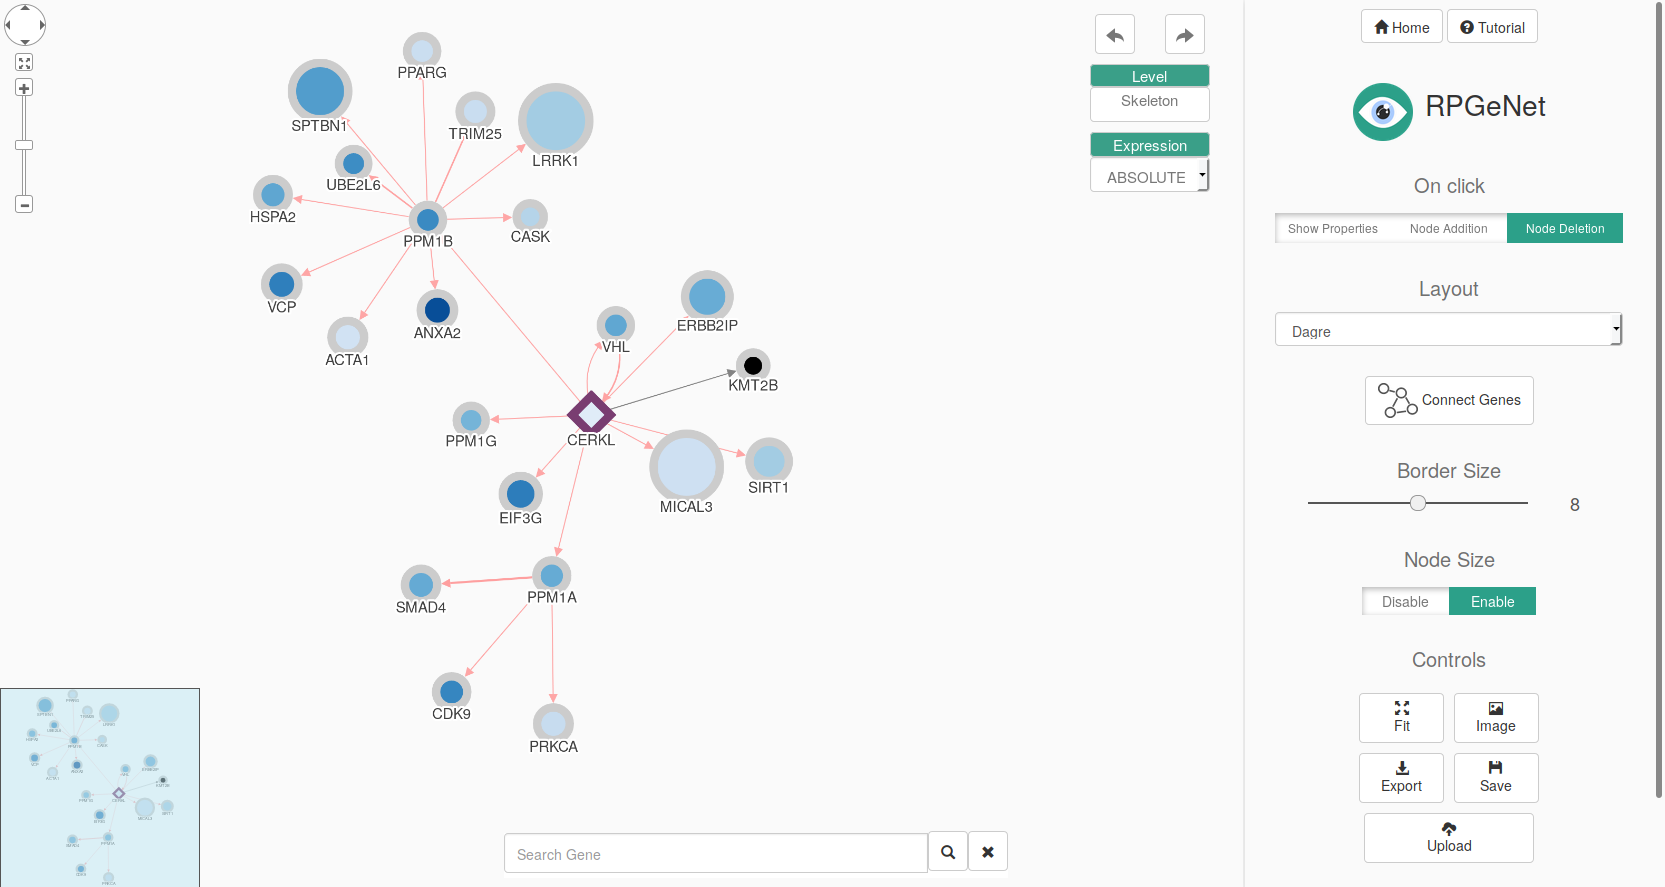
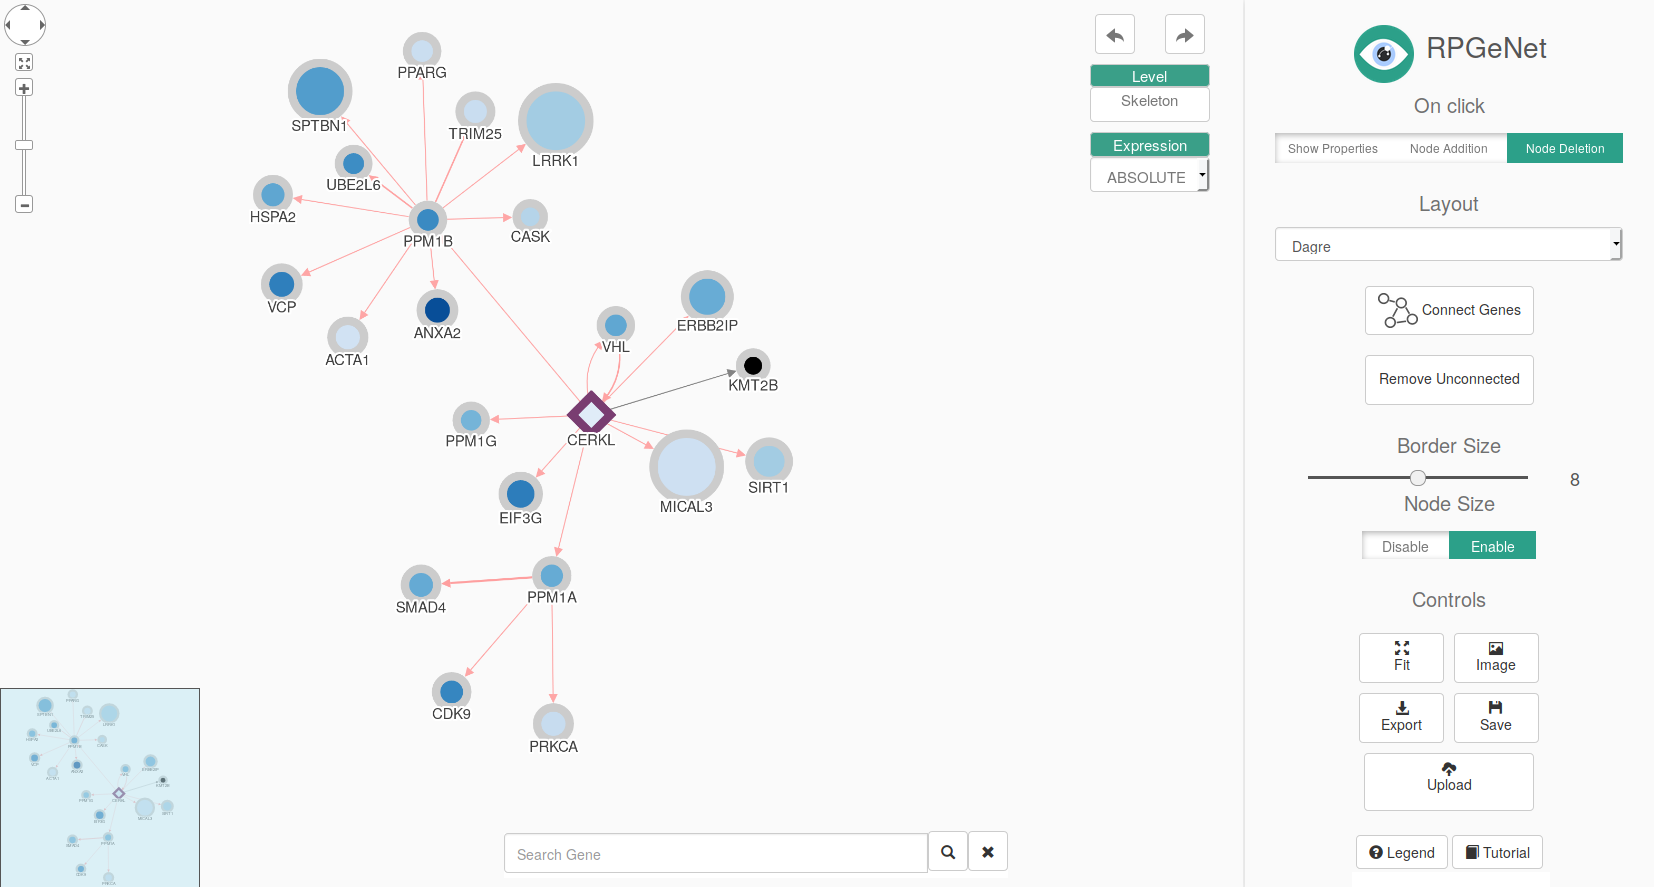
tutorial updated, fix unhidden x button

diff --git a/rpform/templates/rpform/tutorial.html b/rpform/templates/rpform/tutorial.html
@@ -122,8 +122,8 @@
   <br><br>
   <h4 id="controls">Navigation Options</h4>
   <div class="center-text">
-    <a href="{% static 'Images/navoptions.png' %}" target="_blank">
-      <img class="tutorial-img" src="{% static 'Images/command_tutorial.png' %}">
+    <a href="{% static 'Images/guided_tutorial/navoptions2.png' %}" target="_blank">
+      <img class="tutorial-img" src="{% static 'Images/guided_tutorial/navoptions2.png' %}">
     </a>
   </div>
    In Network Explorer you have several options and controls to modify the graph visualization.
@@ -145,6 +145,10 @@
      <li id="options-connect"><b>Connect Genes:</b></li>
      <p>
         This button will add all the interactions in the current level between all the genes displayed on the visualization.
+      </p>
+     <li id="options-unconnect"><b>Remove Unconnected Genes:</b></li>
+     <p>
+        This button will remove all the nodes that are currently not connected in the graph display.
       </p>
      <li id="options-border"><b>Border size:</b></li>
      <p>
@@ -346,8 +350,8 @@
       We will chose the absolute expression option and then click on explore network.
     </p>
     <div class="center-text">
-      <a href="{% static 'Images/guided_tutorial/retabsdisplay.png' %}" target="_blank">
-        <img class="tutorial-img-large" src="{% static 'Images/guided_tutorial/retabsdisplay.png' %}">
+      <a href="{% static 'Images/guided_tutorial/retabsdisplay2.png' %}" target="_blank">
+        <img class="tutorial-img-large" src="{% static 'Images/guided_tutorial/retabsdisplay2.png' %}">
       </a>
     </div>
     <p>
@@ -361,8 +365,8 @@
       Lets take a look at the control panel to the right hand side of the screen.
     </p>
     <div class="center-text">
-      <a href="{% static 'Images/guided_tutorial/command.png' %}" target="_blank">
-        <img class="rpgenet_legend" src="{% static 'Images/guided_tutorial/command.png' %}">
+      <a href="{% static 'Images/guided_tutorial/command2.png' %}" target="_blank">
+        <img class="rpgenet_legend" src="{% static 'Images/guided_tutorial/command2.png' %}">
       </a>
     </div>
     <p>
@@ -398,8 +402,8 @@
       PPM1A and PPM1B.
     </p>
     <div class="center-text">
-      <a href="{% static 'Images/guided_tutorial/node-addition-results.png' %}" target="_blank">
-        <img class="tutorial-img-large" src="{% static 'Images/guided_tutorial/node-addition-results.png' %}">
+      <a href="{% static 'Images/guided_tutorial/node-addition-result2.png' %}" target="_blank">
+        <img class="tutorial-img-large" src="{% static 'Images/guided_tutorial/node-addition-result2.png' %}">
       </a>
     </div>
     <p>
@@ -431,10 +435,22 @@
       you gene of interest interact with each other.
     </p>
     <div class="center-text">
-      <a href="{% static 'Images/guided_tutorial/connect-genes-result.png' %}" target="_blank">
-        <img class="tutorial-img-large" src="{% static 'Images/guided_tutorial/connect-genes-result.png' %}">
+      <a href="{% static 'Images/guided_tutorial/connect-genes-result2.png' %}" target="_blank">
+        <img class="tutorial-img-large" src="{% static 'Images/guided_tutorial/connect-genes-result2.png' %}">
       </a>
     </div>
+    <p>
+      When you delete nodes, you may end up with many unconnected nodes in the
+      graph display. We can use the Remove Unconnected button to remove any unconnected
+      nodes. Restarting with the original CERKL input on the netexplorer, we are
+      going to click on "Node Addition" and click on the gene SIRT1. We will then
+      click on "Node Deletion" and delete SIRT1. All of nodes connecting to SIRT1
+      will be unconnected. Now click "Remove Unconnected" and all the unconnected
+      nodes should be deleted from the graph display.
+    </p>
+    <a href="{% static 'Images/guided_tutorial/REMOVE_UNCONNECTED_ANIMATION.gif' %}" target="_blank">
+        <img class="tutorial-gif-large" src="{% static 'Images/guided_tutorial/REMOVE_UNCONNECTED_ANIMATION.gif' %}">
+      </a>
     <p>
       As you can see, each node has a border that tells us the lowest level the
       gene is found. The size of the border can be modified using "Border Size".
@@ -520,8 +536,8 @@
       click on "Show Legend" for the color scale.
     </p>
     <div class="center-text">
-      <a href="{% static 'Images/guided_tutorial/retalldisplay.png' %}" target="_blank">
-        <img class="tutorial-img-large" src="{% static 'Images/guided_tutorial/retalldisplay.png' %}">
+      <a href="{% static 'Images/guided_tutorial/retalldisplay2.png' %}" target="_blank">
+        <img class="tutorial-img-large" src="{% static 'Images/guided_tutorial/retalldisplay2.png' %}">
       </a>
     </div>
 
@@ -570,8 +586,8 @@
       use all the tools we used in the Network Explorer tutorial (above).
     </p>
     <div class="center-text">
-      <a href="{% static 'Images/guided_tutorial/getexplr-rax.png' %}" target="_blank">
-        <img class="tutorial-img-large" src="{% static 'Images/guided_tutorial/getexplr-rax.png' %}">
+      <a href="{% static 'Images/guided_tutorial/getexplr-rax2.png' %}" target="_blank">
+        <img class="tutorial-img-large" src="{% static 'Images/guided_tutorial/getexplr-rax2.png' %}">
       </a>
     </div>
     <h4 id="shortest-guided">Shortest Path Between Genes</h4>
@@ -598,8 +614,8 @@
       the pathway that interest us to Network Explorer by clicking "Exlore Network".
     </p>
     <div class="center-text">
-      <a href="{% static 'Images/guided_tutorial/netexplr-cerkl-rho.png' %}" target="_blank">
-        <img class="tutorial-img-large" src="{% static 'Images/guided_tutorial/netexplr-cerkl-rho.png' %}">
+      <a href="{% static 'Images/guided_tutorial/netexplr-cerkl-rho2.png' %}" target="_blank">
+        <img class="tutorial-img-large" src="{% static 'Images/guided_tutorial/netexplr-cerkl-rho2.png' %}">
       </a>
     </div>
     <p></p>

diff --git a/rpform/templates/rpform/index.html b/rpform/templates/rpform/index.html
@@ -68,7 +68,7 @@
 				This just means that starting from your query gene(s) you can just "travel" to another node with a distance equal to the value that you specified.
 			</p>
 			<p>
-				For example, when searching for <i>CEP290</i> and the "neighbours" is set to 1 (this is the default value), this set of genes can be obtained: <i>OFD1</i>, <i>RPGR</i>, <i>ANAPC2</i>, <i>ATF4</i>, <i>IQCB1</i>. This means that from <i>CEP290</i> one can only travel to nodes (say here genes) at distance 1. If "neighbours" is set to 2,further genes are retrieved apart from the previous ones, and now one can travel a distance of 2 to other genes.
+				For example, when searching for <i>CEP290</i> and the "neighbours" is set to 1 (this is the default value), this set of genes can be obtained: <i>OFD1</i>, <i>RPGR</i>, <i>ANAPC2</i>, <i>ATF4</i>, <i>IQCB1</i>. This means that from <i>CEP290</i> one can only travel to nodes (say here genes) at distance 1. If "neighbours" is set to 2, further genes are retrieved apart from the previous ones, and now one can travel a distance of 2 to other genes.
 				<br><br>
 				See also tutorial <a href="{% url tutorial %}" target="_blank">page</a>.
 			</p>
@@ -137,9 +137,8 @@
 			<p>
 				Here you can choose between trying to find the shortest pathway between
 				your gene of interest and driver genes or to genes in the skeleton.
-			</p>pathto-bt
-				<br /><br />
 			</p>
+			<br>
 			See also tutorial <a href="{% url tutorial %}" target="_blank">page</a>.
 	</div>
 

diff --git a/rpform/static/css/style.css b/rpform/static/css/style.css
@@ -565,6 +565,7 @@ input[type=number]::-webkit-inner-spin-button {
 	background-color: #FAFAFA;
 	box-shadow: 0px 0px 180px 120px rgba(0,0,0,0.75);
 	overflow-y: scroll;
+	color: #777777;
 }
 
 .close-card-btn {
@@ -625,6 +626,8 @@ input[type=number]::-webkit-inner-spin-button {
     box-shadow: 0px 0px 180px 120px rgba(0,0,0,0.75);
     color: #777777;
 }
+
+/* color: #777777 */
 
 .panel-form {
 	padding-top: 2px !important;
@@ -912,6 +915,14 @@ input[type=number]::-webkit-inner-spin-button {
 .tutorial-img-large {
 	max-width: 100%;
 	width: 800px;
+}
+
+.tutorial-gif-large {
+	max-width: 100%;
+	width: 800px;
+	display: block;
+  margin-left: auto;
+  margin-right: auto;
 }
 
 .tutorial-img-large-center {

diff --git a/static/css/style.css b/static/css/style.css
@@ -565,6 +565,7 @@ input[type=number]::-webkit-inner-spin-button {
 	background-color: #FAFAFA;
 	box-shadow: 0px 0px 180px 120px rgba(0,0,0,0.75);
 	overflow-y: scroll;
+	color: #777777;
 }
 
 .close-card-btn {
@@ -625,6 +626,8 @@ input[type=number]::-webkit-inner-spin-button {
     box-shadow: 0px 0px 180px 120px rgba(0,0,0,0.75);
     color: #777777;
 }
+
+/* color: #777777 */
 
 .panel-form {
 	padding-top: 2px !important;
@@ -912,6 +915,14 @@ input[type=number]::-webkit-inner-spin-button {
 .tutorial-img-large {
 	max-width: 100%;
 	width: 800px;
+}
+
+.tutorial-gif-large {
+	max-width: 100%;
+	width: 800px;
+	display: block;
+  margin-left: auto;
+  margin-right: auto;
 }
 
 .tutorial-img-large-center {

diff --git a/rpform/templates/rpform/gexplorer.html b/rpform/templates/rpform/gexplorer.html
@@ -95,7 +95,7 @@
 	<!-- Get info Card on click -->
     <!-- Gene Card -->
     <div id="button-container">
-        <div class="close-overlay" title="Close card">
+        <div class="close-overlay" style="display: none;" title="Close card">
             <span class="glyphicon glyphicon-remove" aria-hidden="true"></span>
         </div>
     </div>

diff --git a/rpform/static/js/app.js b/rpform/static/js/app.js
@@ -453,7 +453,7 @@ function getCookie(name) {
  * Removes unconnected nodes in visualization
  */
  removeUnconnected = function(cy) {
-   cy.nodes('[[degree < 1]]').remove();
+   ur.do("remove", cy.nodes('[[degree < 1]]'));
  }
 
 /*

diff --git a/static/js/app.js b/static/js/app.js
@@ -452,7 +452,7 @@ function getCookie(name) {
  * Removes unconnected nodes in visualization
  */
  removeUnconnected = function(cy) {
-   cy.nodes('[[degree < 1]]').remove();
+   ur.do("remove", cy.nodes('[[degree < 1]]'));
  }
 
 /*
